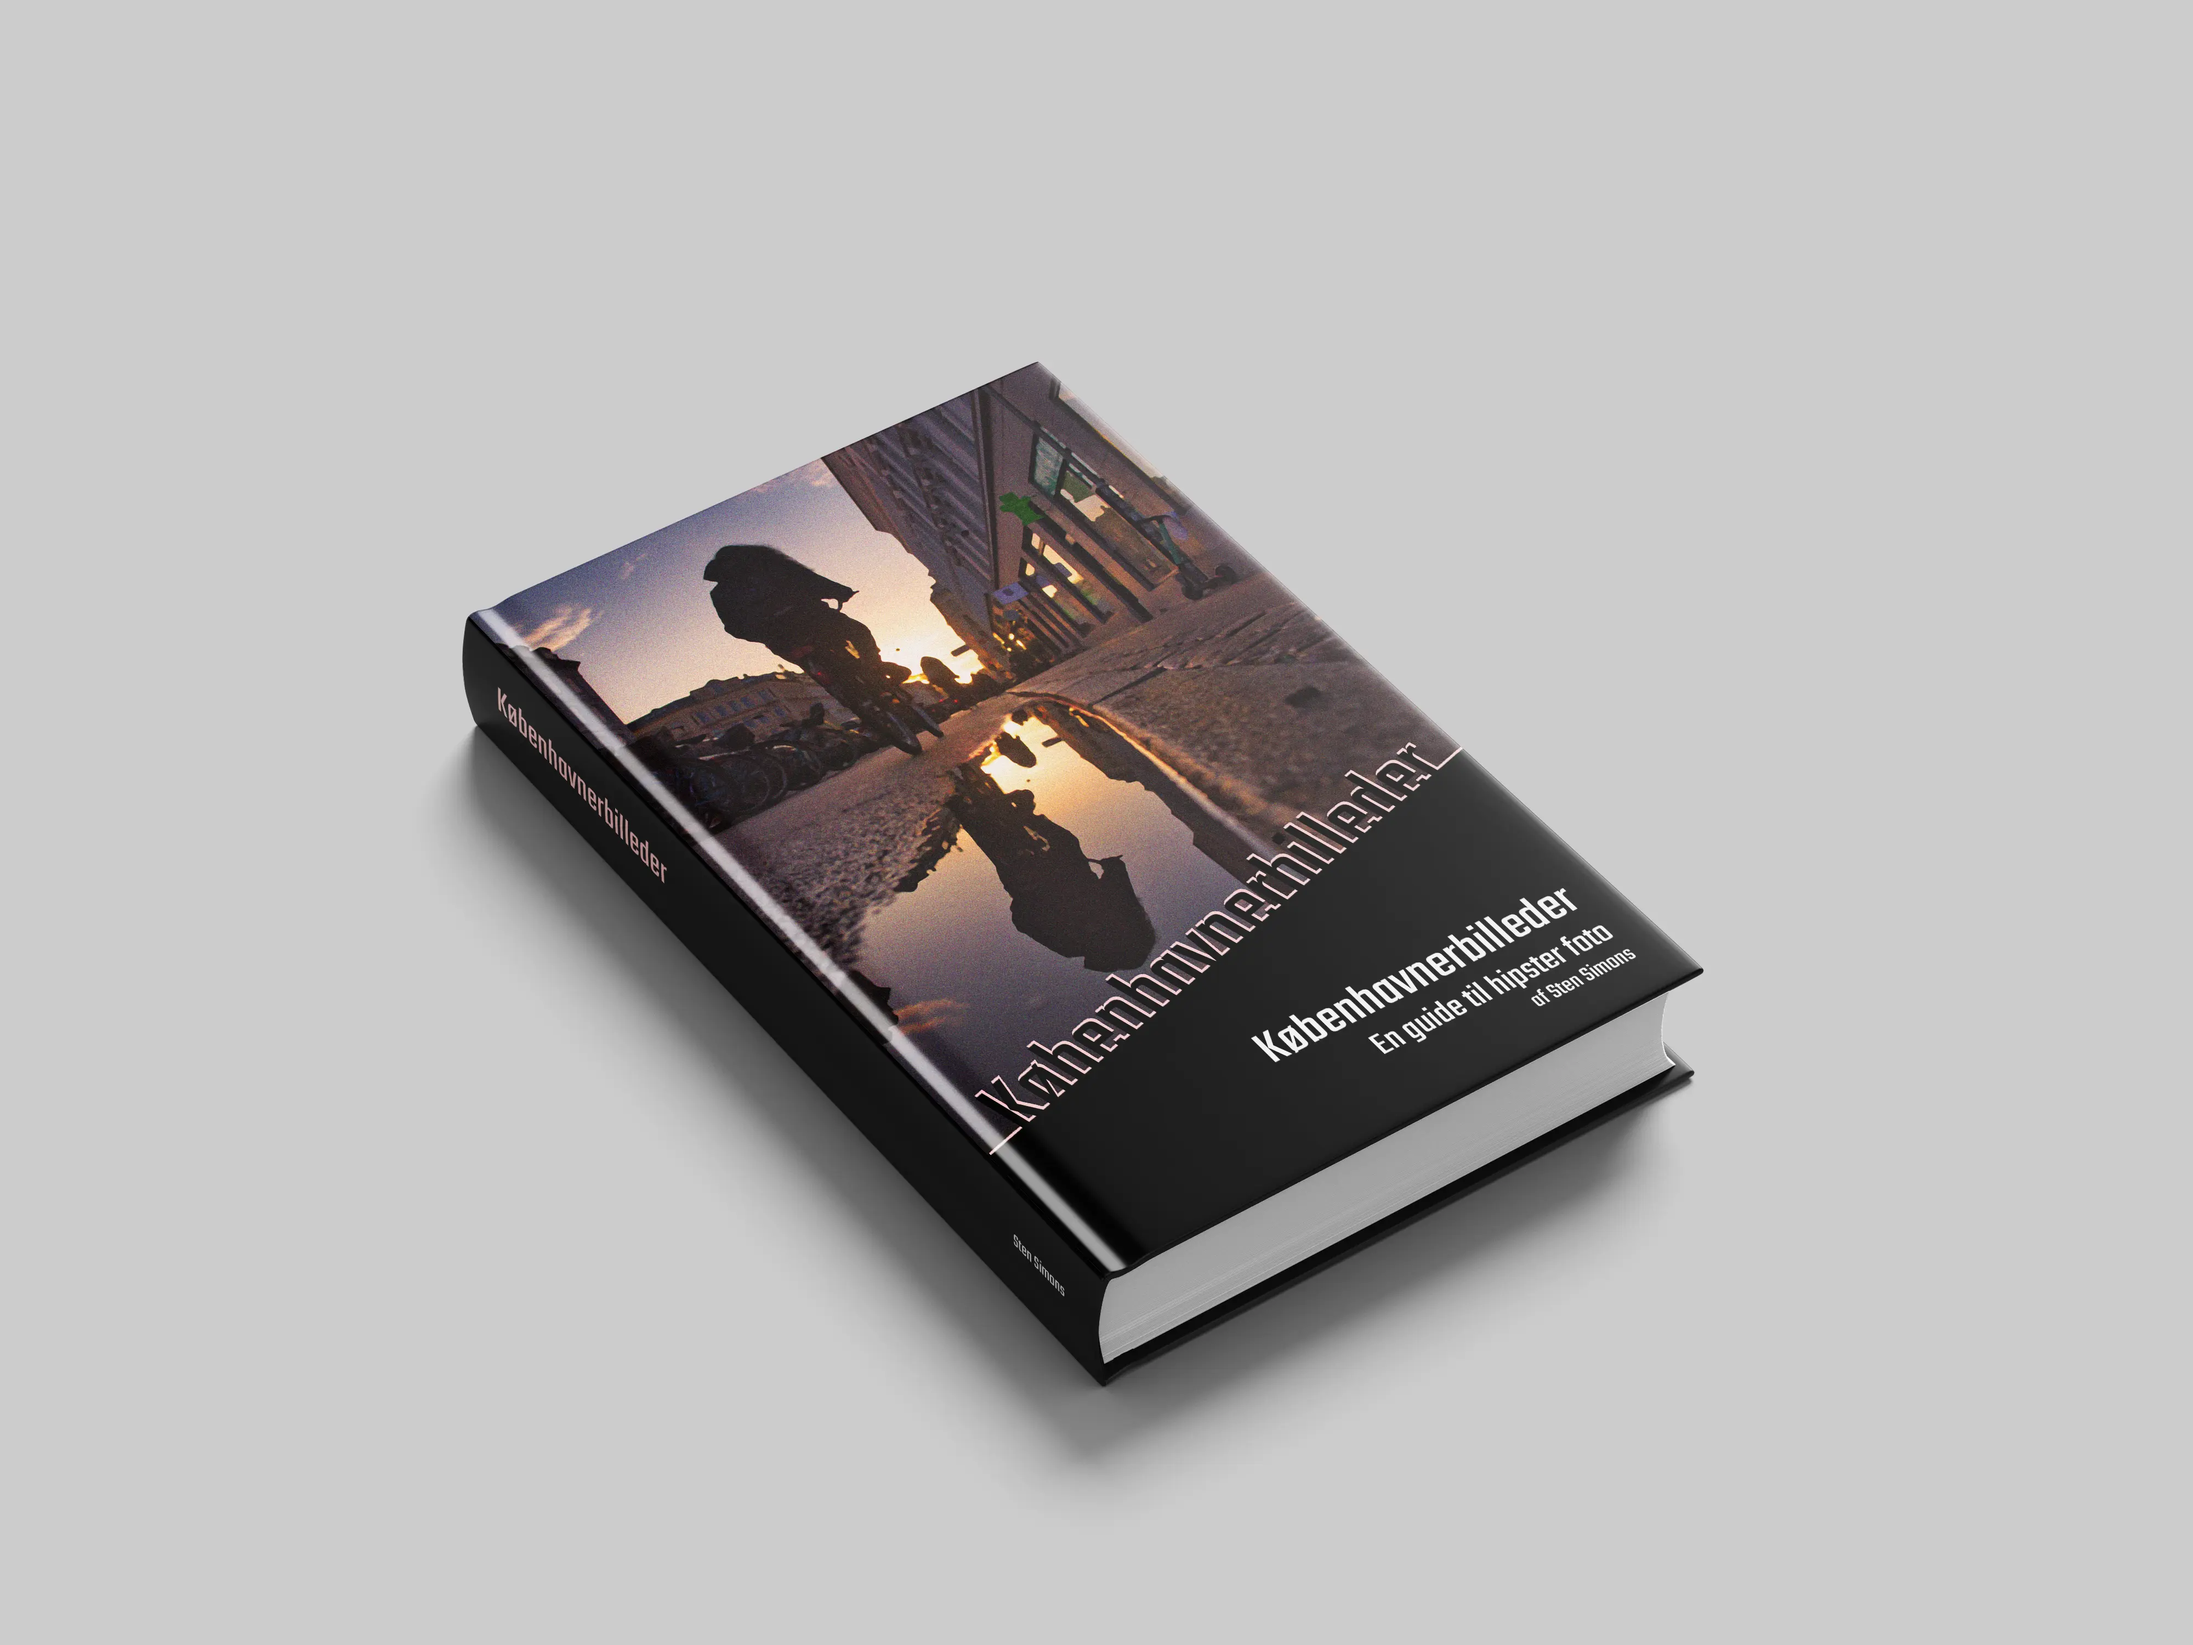
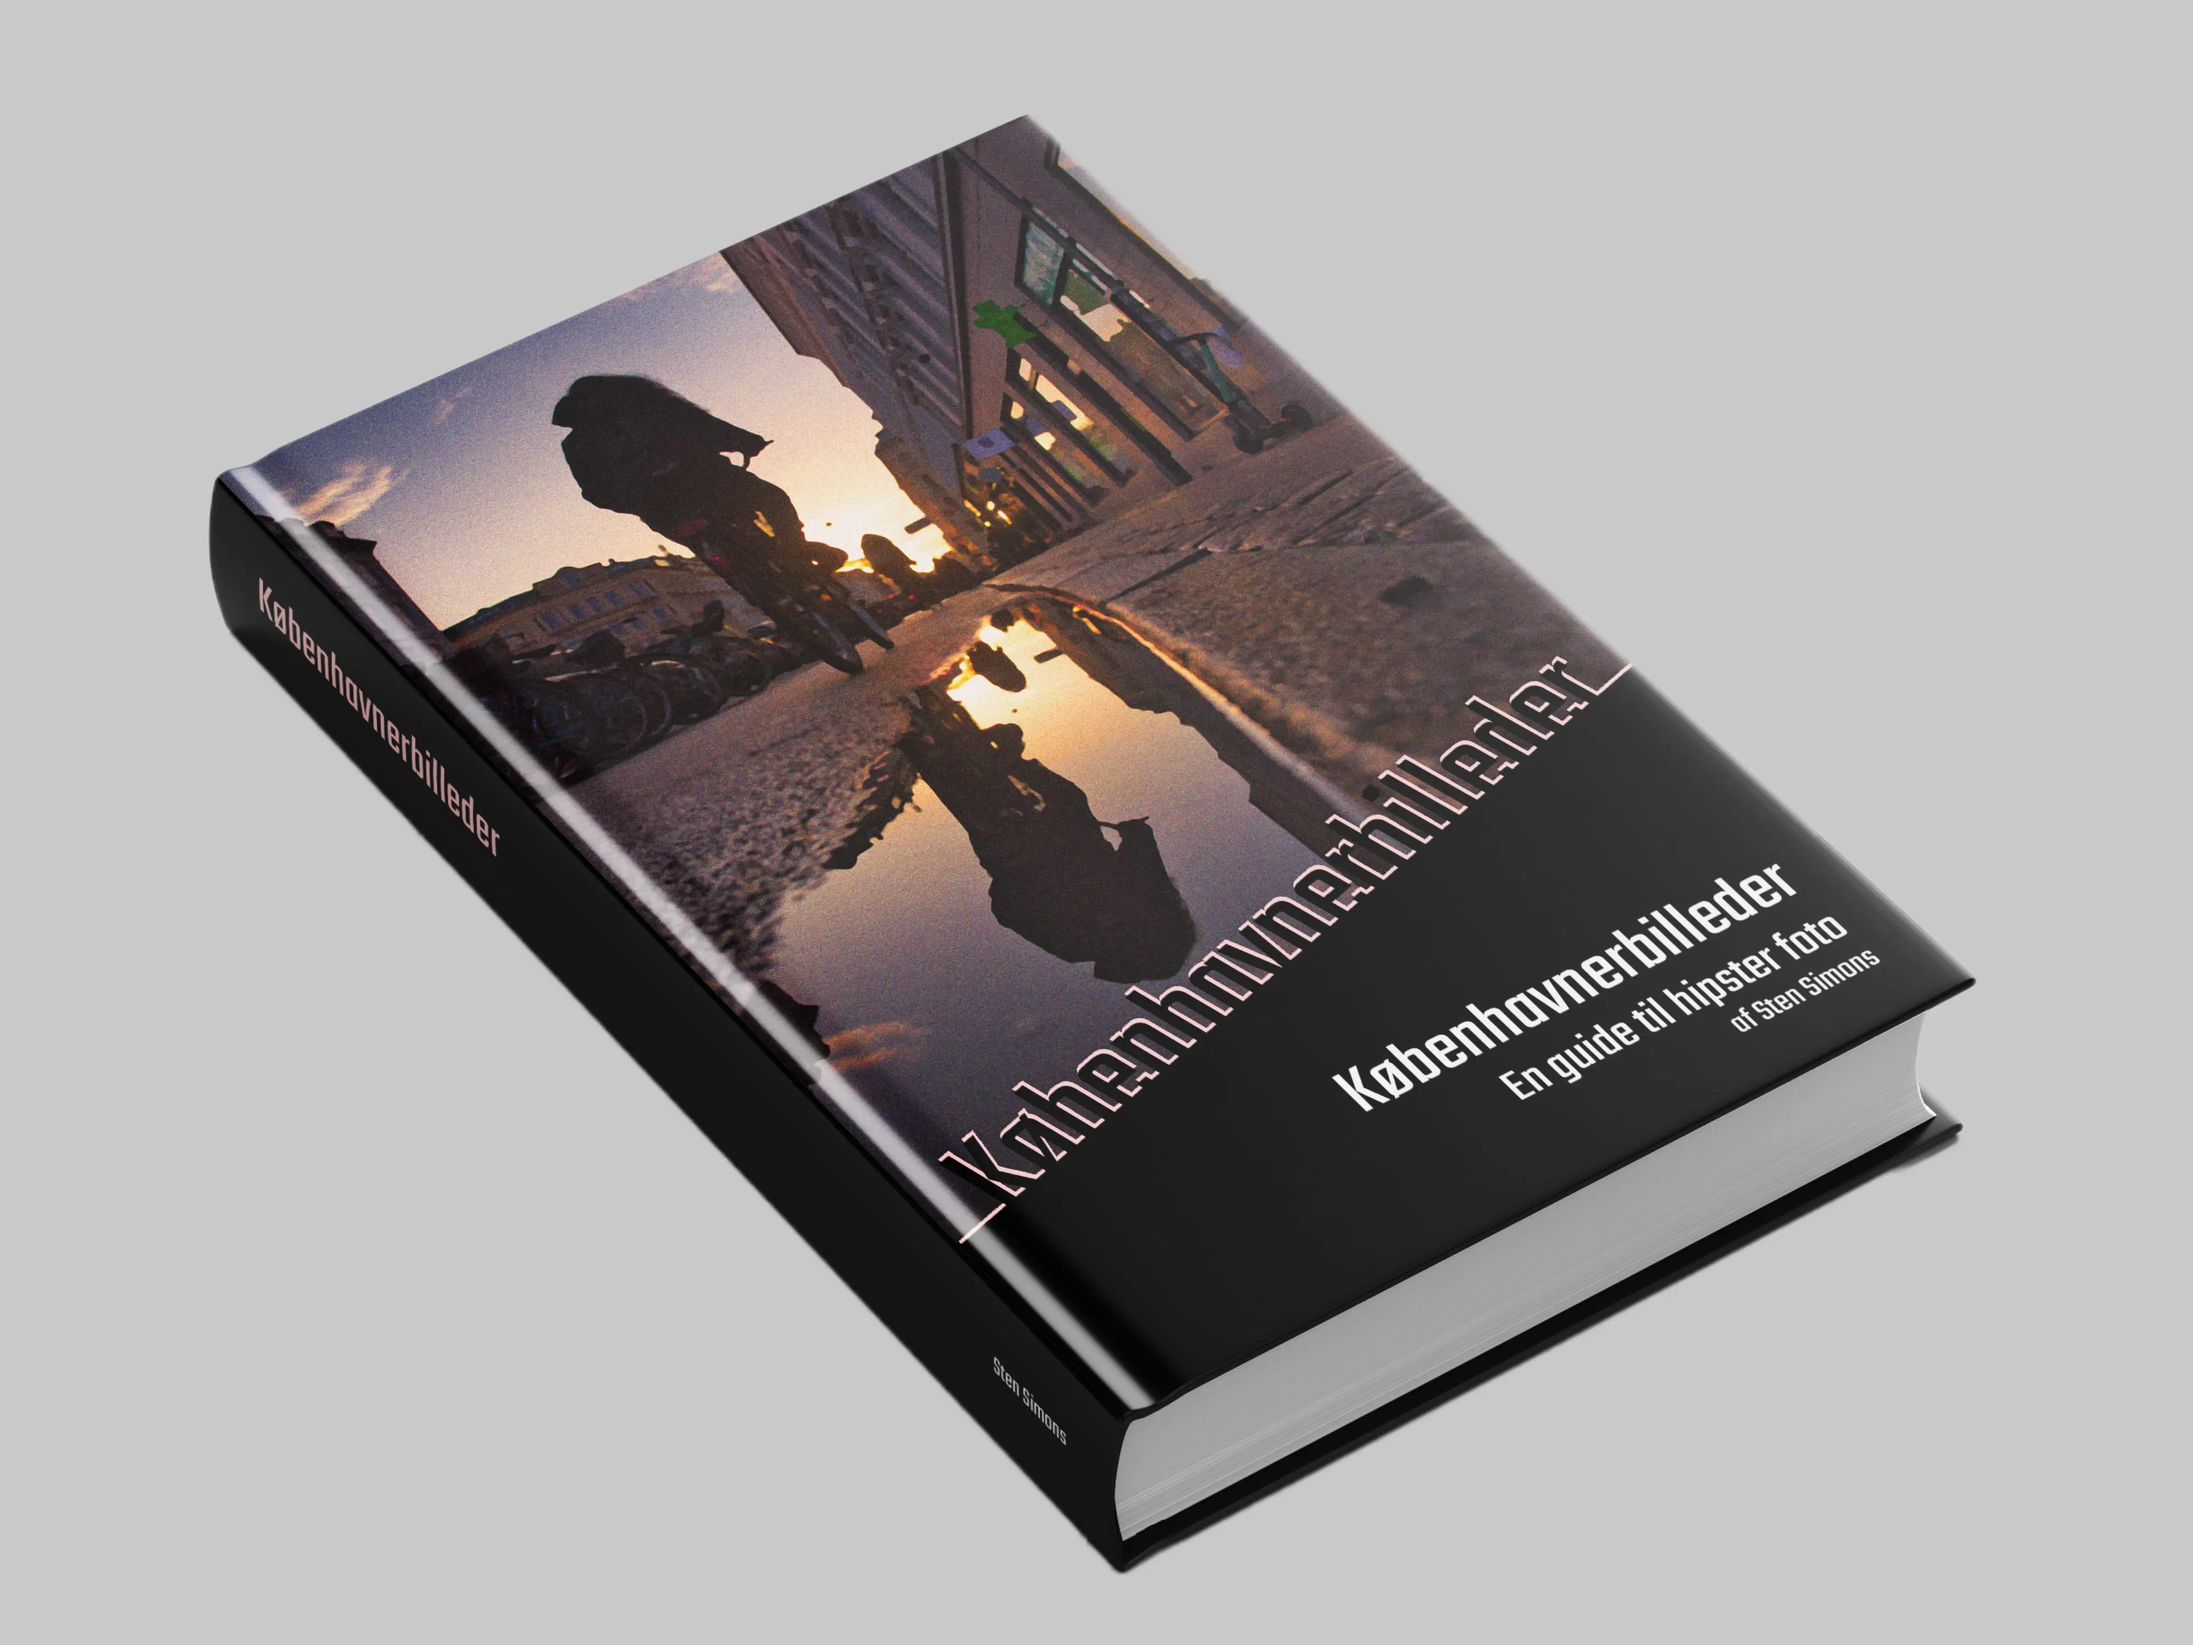
1

Changed region(s): [[0.0938, 0.062, 0.9062, 0.961]]

diff --git a/src/index.html b/src/index.html
@@ -7,9 +7,9 @@
     <title>Københavnerbilleder</title>
   </head>
   <body class="grid min-h-screen place-items-center">
-    <div class="max-w-5x grid grid-cols-2 gap-4 p-8">
+    <section class="max-w-5x grid grid-cols-2 gap-4 p-8">
       <div class="h-16">
-        <img class="" src="/img/bogen.webp" alt="bogensforside" width="360" />
+        <img class="" src="/img/bogen.webp" alt="bogensforside" width="500" />
       </div>
       <div>
         <h1 class="big-primary">
@@ -17,7 +17,33 @@
         </h1>
         <button>KØB HER</button>
       </div>
-    </div>
+    </section>
+    <section class="max-w-5x grid grid-cols-2 gap-4 p-8">
+      <div>
+        <h2>Stamdata for bogen</h2>
+        <ul>
+          <li>Titel: Københavnerbilleder - en guide til hipster foto</li>
+          <li>Forfatter: Sten Simons</li>
+          <li>Antal sider: 344</li>
+          <li>Forlag: Mellem Linjerne</li>
+          <li>ISBN: 987-6-987654-32-1</li>
+          <li>Pris: 399.-</li>
+        </ul>
+      </div>
+      <div>
+        <h2>Kort om bogen</h2>
+        <p>
+          Københavnerbilleder er de danske streetfotografers bibel: Det er en
+          fusion mellem et kunstværk og en lærebog. Bogen gennemgår alle
+          væsentlige aspekter af streetfotografering fra grundlæggende teknik
+          til kreative eksperimenter. Alt sammen krydret med masser af
+          inspirerende fotos. God læselyst!
+        </p>
+      </div>
+    </section>
+    <section>
+      <div></div>
+    </section>
 
     <script type="module" src="./main.js"></script>
   </body>
